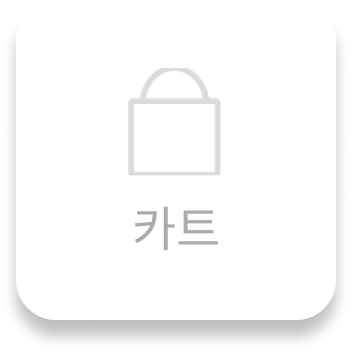
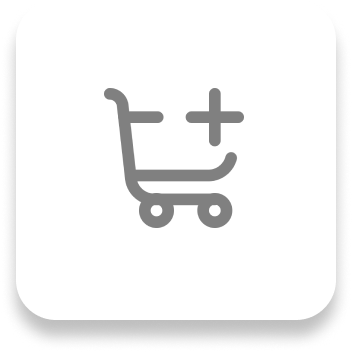
아이콘 변경/정렬/디테일페이지 작업중

Changed region(s): [[0.2812, 0.1875, 0.7188, 0.7188]]

diff --git a/css/detail-page.css b/css/detail-page.css
@@ -14,7 +14,6 @@
 }
 .detile-product-main-left {
   width: 60%;
-  background-color: aqua;
 }
 .detile-product-main-left img {
   width: 100%;
@@ -44,7 +43,6 @@
   text-align: left;
   margin-top: 20px;
   line-height: 20px;
-  background-color: cadetblue;
 }
 
 .detile-product-info > h1 {
@@ -84,18 +82,22 @@
   padding-left: 73px;
 }
 
-.detile-card {
-  margin-bottom: 20px;
-  width: 100%;
-  padding: 0 20px;
-}
 /* 상품소개/브랜드 */
+.detile-card {
+  width: 100%;
+  margin: 0 auto;
+  padding: 80px;
+}
 .detile-tab-content {
   display: none;
 }
-.detile-tab-container.active {
+.detile-tab-container{
   display: flex;
   justify-content: space-around;
+}
+.detile-tab-container.active {
+  display: flex;
+
 }
 
 .detile-tab-button {
@@ -103,18 +105,26 @@
   cursor: pointer;
   border: none;
   background-color: #c74c4c00;
-}
 
+}
+/* 라인 */
 .detile-tab-content {
-  padding: 20px;
   border-top: 2px solid #ddd;
   display: flex;
-  justify-content: flex-end;
+  align-items: center;
+}
+.detile-tab-content.active {
+  border-top: 2px solid #000;
+  width: 50%;
 }
 .detile-tab-content img {
-  width: 100%;
+width: 100%;
 }
-#description-tab {
-  background-color: brown;
+.detile-image-container img{
+  padding-top: 100px;
 }
+.detile-image-brand{
+  width: 75%;
+}
+
 /* 더 보기 */

diff --git a/js/detail.js b/js/detail.js
@@ -3,6 +3,7 @@ window.addEventListener("load", () => {
   const brandTab = document.getElementById("brand-tab");
   const descriptionContent = document.getElementById("detile-description");
   const brandContent = document.getElementById("detile-brand");
+  const tabContainer = document.getElementById("detile-tab-container");
 
   // Add event listeners for tab clicks
   descriptionTab.addEventListener("click", () => {
@@ -13,6 +14,12 @@ window.addEventListener("load", () => {
   });
 
   brandTab.addEventListener("click", () => {
+    descriptionContent.style.display = "none";
+    brandContent.style.display = "block";
+    brandTab.classList.add("active");
+    descriptionTab.classList.remove("active");
+  });
+  tabContainer.addEventListener("click", () => {
     descriptionContent.style.display = "none";
     brandContent.style.display = "block";
     brandTab.classList.add("active");

diff --git a/detail-page.html b/detail-page.html
@@ -1,8 +1,6 @@
 <!DOCTYPE html>
 <html lang="ko">
   <head>
-   
-
     <script src="js/detail.js"></script>
     <!-- css -->
     <link rel="stylesheet" href="css/main.css" />
@@ -282,7 +280,7 @@
           <!-- 브랜드 소개 탭 내용 -->
           <div class="detile-tab-content" id="detile-brand" style="display: none">
             <div class="detile-image-brand detile-card">
-              <img src="images/detail/suncatcher-brand.png" alt="브랜드" id="detailImage" />
+              <img src="images/detail/suncatcher-brand.png" alt="브랜드" id="brandImage" />
             </div>
           </div>
         </div>
